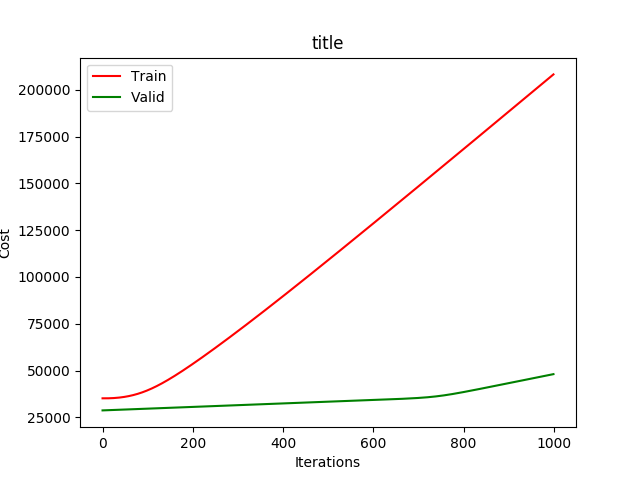
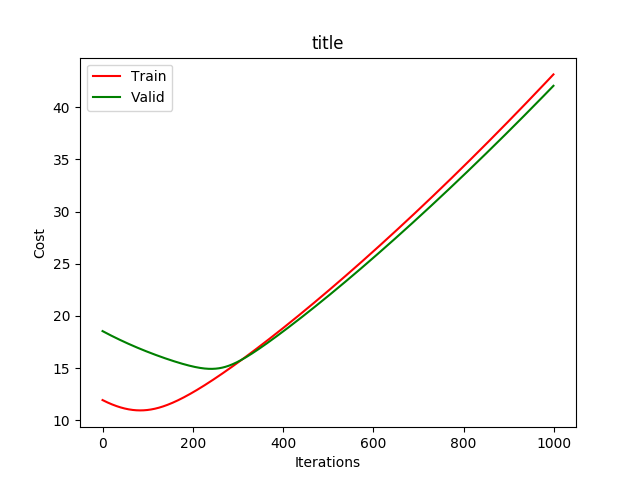
Adding cost function plot

diff --git a/LayerClass.py b/LayerClass.py
@@ -13,7 +13,6 @@ class Layer:
             self.weights = np.identity(input_size)
             self.bias = np.zeros(output_size)
 
-
 class NeuralNetwork:
     def __init__(self):
         self.camadas = []
@@ -22,21 +21,26 @@ class NeuralNetwork:
         self.train_loss = []
         self.valid_loss = []
 
-    def calc_loss(self,H,Y,group):
+    def calc_loss(self,H,y,group):
+        Y = np.zeros((len(y),10))
+        for i in range(0, len(y)):
+            Y[i][y[i]] = 1
         out = len(self.camadas)-1
+        m = H.shape[0]
         if group == 'train':
             if self.functions[out] == sigmoid:
-                self.train_loss.append(np.sum(-1* np.add(np.multiply(Y,(1/H)) , np.multiply(np.subtract(1, Y),(1/np.subtract(1,H))))))
+                self.train_loss.append(np.sum(-1* np.add(np.multiply(y,(1/H)) , np.multiply(np.subtract(1, y),(1/np.subtract(1,H))))))
             elif self.functions[out] == softmax:
-                self.train_loss.append(np.sum(-np.log(H[Y])))
+                self.train_loss.append((-1 / m) * np.sum(Y * np.log(H)) + (1/2)*np.sum(self.camadas[out].weights**2))
+                #self.train_loss.append(np.sum(-np.log(H[Y])))
         elif group == 'valid':
             if self.functions[out] == sigmoid:
-                self.valid_loss.append(np.sum(-1* np.add(np.multiply(Y,(1/H)) , np.multiply(np.subtract(1, Y),(1/np.subtract(1,H))))))
+                self.valid_loss.append(np.sum(-1* np.add(np.multiply(y,(1/H)) , np.multiply(np.subtract(1, y),(1/np.subtract(1,H))))))
             elif self.functions[out] == softmax:
-                self.valid_loss.append(np.sum(-np.log(H[Y])))
+                #self.valid_loss.append(np.sum(-np.log(H[Y])))
+                self.valid_loss.append( (-1 / m) * np.sum(Y * np.log(H)) + (1/2)*np.sum(self.camadas[out].weights**2))
         return 
 
-        
     def forward(self,X,y):
         out = len(self.camadas)-1
         inp = 0
@@ -53,7 +57,6 @@ class NeuralNetwork:
             activation = self.functions[i](np.add(activation.dot(self.camadas[i].weights),self.camadas[i].bias.T))
         self.calc_loss(activation, y, 'valid')
         return activation
-
 
     def backward(self,  X, y, learning_rate):
         out = len(self.camadas)-1
@@ -145,6 +148,7 @@ class NeuralNetwork:
         for i in range(1,len(camadas)):
             camadas[i].activation = self.functions[i](camadas[i-1].activation.dot(camadas[i].weights))
         preds = camadas[out].activation
-        #print("Pred do predict")
-        #print(preds)
         return preds
+        
+        
+        
